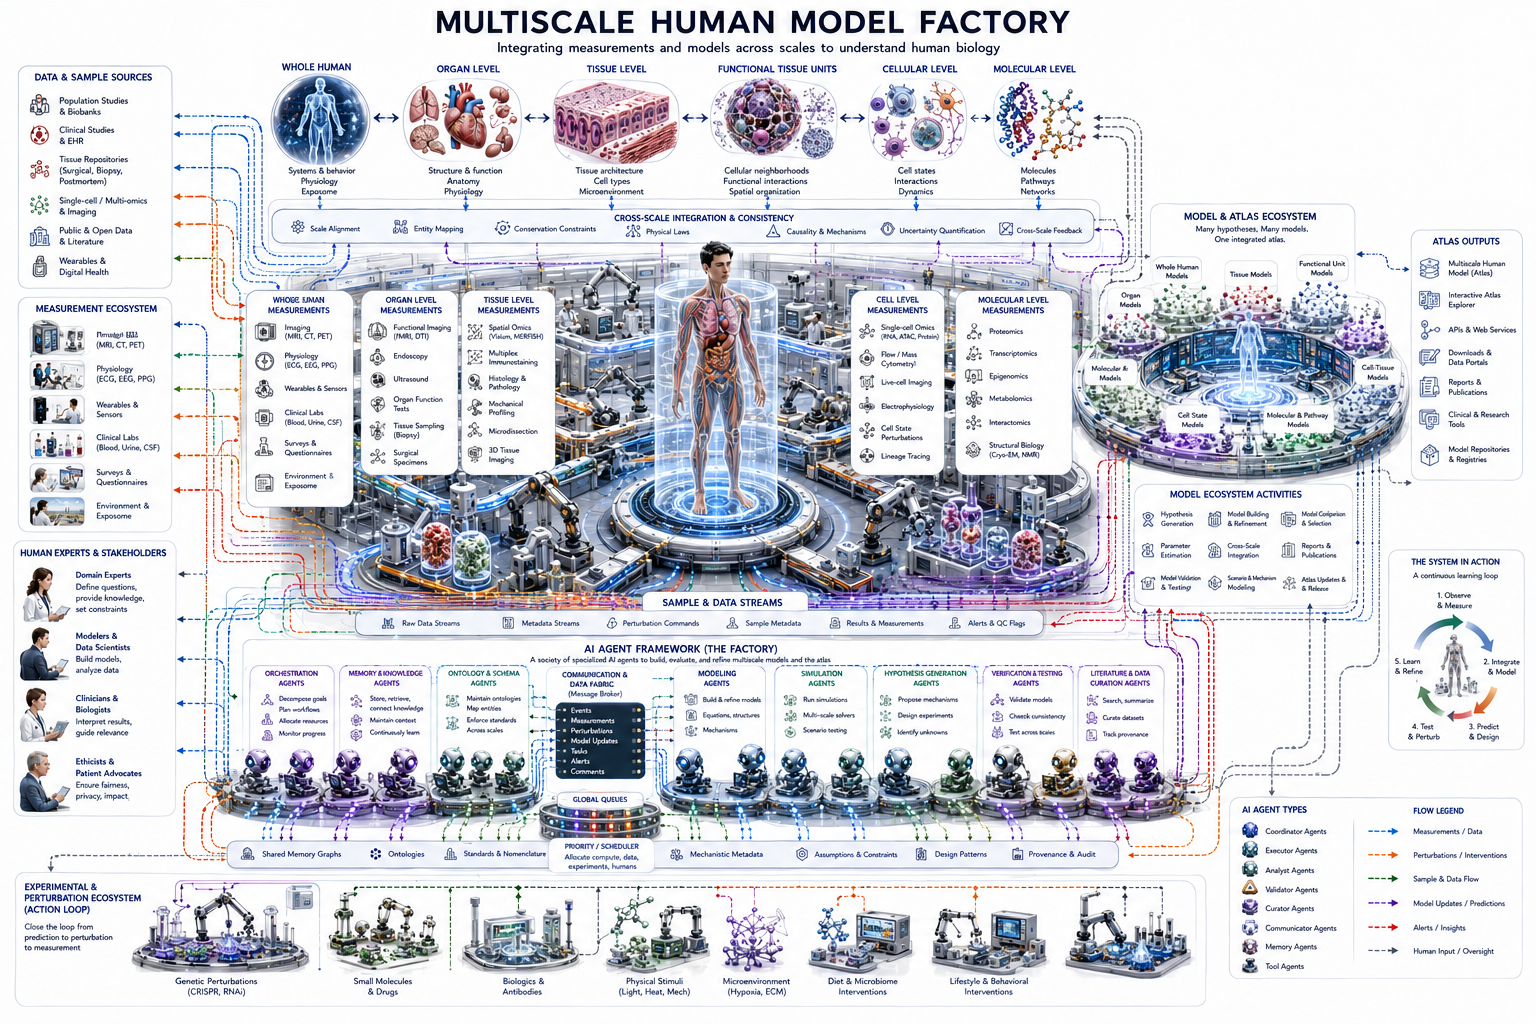
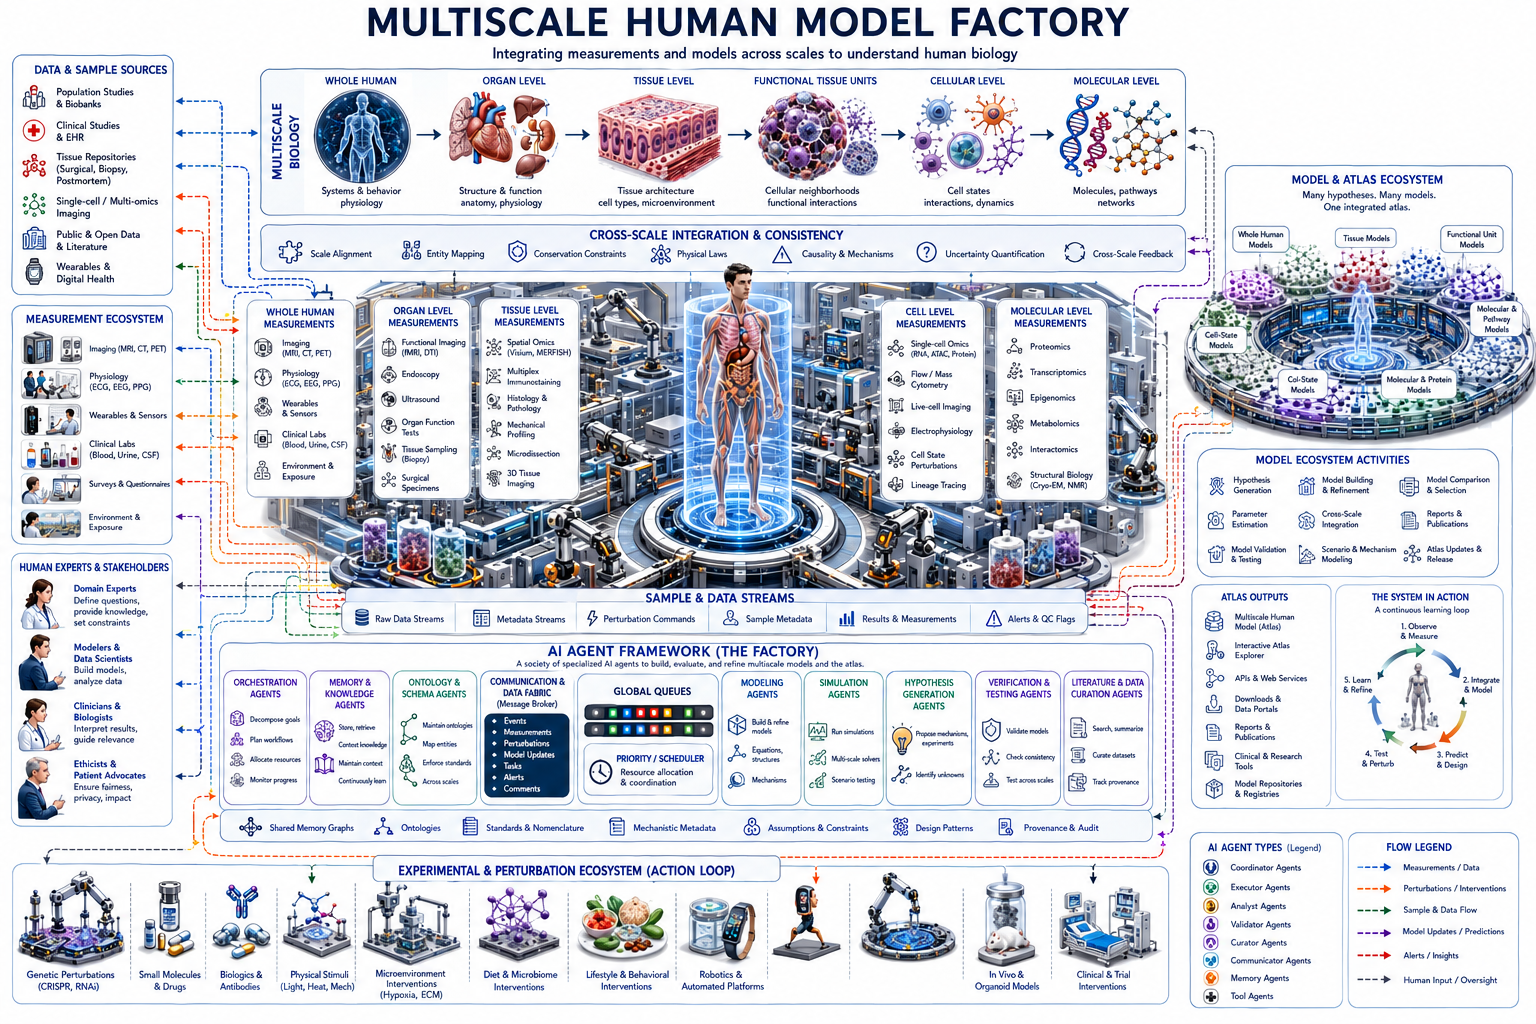
Add Elements of the Cell and AI-Guided Investigations art; refresh WCM Ecosystem and Multiscale Human Model Factory

diff --git a/ai-artwork.md b/ai-artwork.md
@@ -102,14 +102,14 @@ permalink: /ai-artwork/
   </figure>
 
   <figure class="ai-piece">
-    <a href="/images/ai-artwork/agentic_wcm_factory.png" target="_blank">
-      <img src="/images/ai-artwork/agentic_wcm_factory.png"
-           alt="Agentic Whole-Cell Model Factory">
+    <a href="/images/ai-artwork/wcm_ecosystem_living_factory.png" target="_blank">
+      <img src="/images/ai-artwork/wcm_ecosystem_living_factory.png"
+           alt="Whole-Cell Model Ecosystem">
     </a>
     <figcaption>
-      <span class="title">Agentic Whole-Cell Model Factory</span>
-      An integrated, continuously learning system that connects experiments, AI agents, models, and human expertise to understand life.
-      <a class="download" href="/images/ai-artwork/agentic_wcm_factory.png" download>Download</a>
+      <span class="title">Whole-Cell Model Ecosystem</span>
+      A living factory for discovery. Many ideas compete, promising ones are expanded, and all are connected — a society of AI agents coordinating measurements, perturbations, and models around a continuously refined whole-cell simulation.
+      <a class="download" href="/images/ai-artwork/wcm_ecosystem_living_factory.png" download>Download</a>
     </figcaption>
   </figure>
 
@@ -122,6 +122,18 @@ permalink: /ai-artwork/
       <span class="title">Multiscale Human Model Factory</span>
       Integrating measurements and models across scales — from molecules to the whole human — into one coherent atlas.
       <a class="download" href="/images/ai-artwork/multiscale_human_model_factory.png" download>Download</a>
+    </figcaption>
+  </figure>
+
+  <figure class="ai-piece">
+    <a href="/images/ai-artwork/ai_guided_investigations.png" target="_blank">
+      <img src="/images/ai-artwork/ai_guided_investigations.png"
+           alt="AI-Guided Investigations for Multiscale Biological Modeling">
+    </a>
+    <figcaption>
+      <span class="title">AI-Guided Investigations for Multiscale Biological Modeling</span>
+      A living ecosystem of models, data, agents, and ideas. A collaborative system of AI agents and human experts that transforms questions and data into multiscale models, validated insights, and the next generation of discoveries.
+      <a class="download" href="/images/ai-artwork/ai_guided_investigations.png" download>Download</a>
     </figcaption>
   </figure>
 
@@ -158,6 +170,18 @@ permalink: /ai-artwork/
       <span class="title">The Open Market of Models</span>
       Ten principles for a competitive, composable, and innovative future — where models compete, compose, and circulate as living infrastructure.
       <a class="download" href="/images/ai-artwork/open_market_of_models.png" download>Download</a>
+    </figcaption>
+  </figure>
+
+  <figure class="ai-piece">
+    <a href="/images/ai-artwork/elements_of_the_cell.png" target="_blank">
+      <img src="/images/ai-artwork/elements_of_the_cell.png"
+           alt="Elements of the Cell">
+    </a>
+    <figcaption>
+      <span class="title">Elements of the Cell</span>
+      On boundary, self-production, and action in living form. A Euclid-style treatise on the cell — definitions, common notions, and propositions for a bounded, dissipative process that makes itself.
+      <a class="download" href="/images/ai-artwork/elements_of_the_cell.png" download>Download</a>
     </figcaption>
   </figure>
 